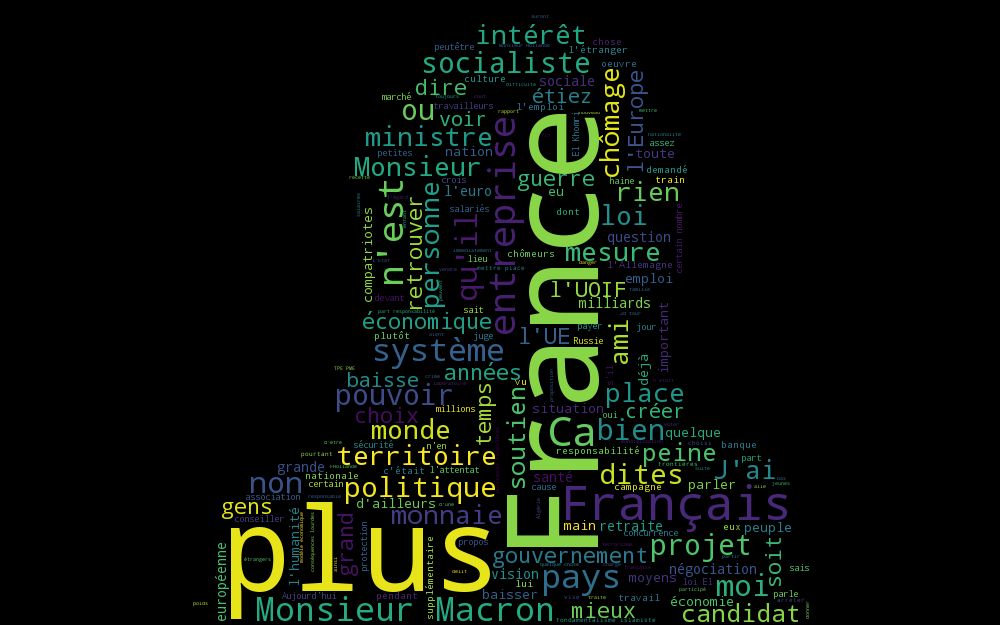
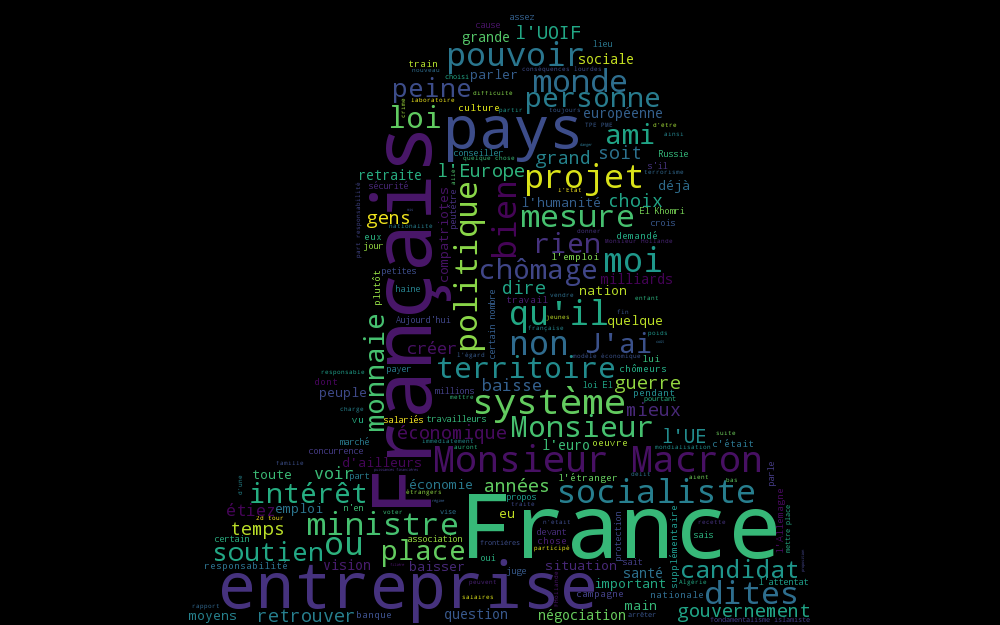
added stopwords, remove deprecated Sets

Changed region(s): [[0.186, 0.0304, 0.806, 1.0]]

diff --git a/debateCloudUtils/xmlTranscriptLoader.py b/debateCloudUtils/xmlTranscriptLoader.py
@@ -3,7 +3,8 @@
 import codecs
 from bs4 import BeautifulSoup
 import re
-from sets import Set
+
+
 
 def replaceAll(original,removables) :
 	"""
@@ -29,7 +30,7 @@ def loadWordsFromTranscript(filename,stopWords) :
 	
 	currentSpeaker = None
 
-	stopWordsSet = Set(stopWords)
+	stopWordsSet = set(stopWords)
 
 	wordsBySpeaker = {}
 	#using codecs.open (https://github.com/amueller/word_cloud/issues/148)

diff --git a/debateCloudUtils/stopWordLoader.py b/debateCloudUtils/stopWordLoader.py
@@ -1,6 +1,6 @@
 #!/usr/bin/env python
 # -*- coding: utf-8 -*-
-from sets import Set
+
 import codecs
 def loadStopWords(filename) :
 	"""
@@ -20,5 +20,5 @@ def loadStopWords(filename) :
 			lines.append(line.strip())
 	
 
-	return Set(lines)
+	return set(lines)
 
